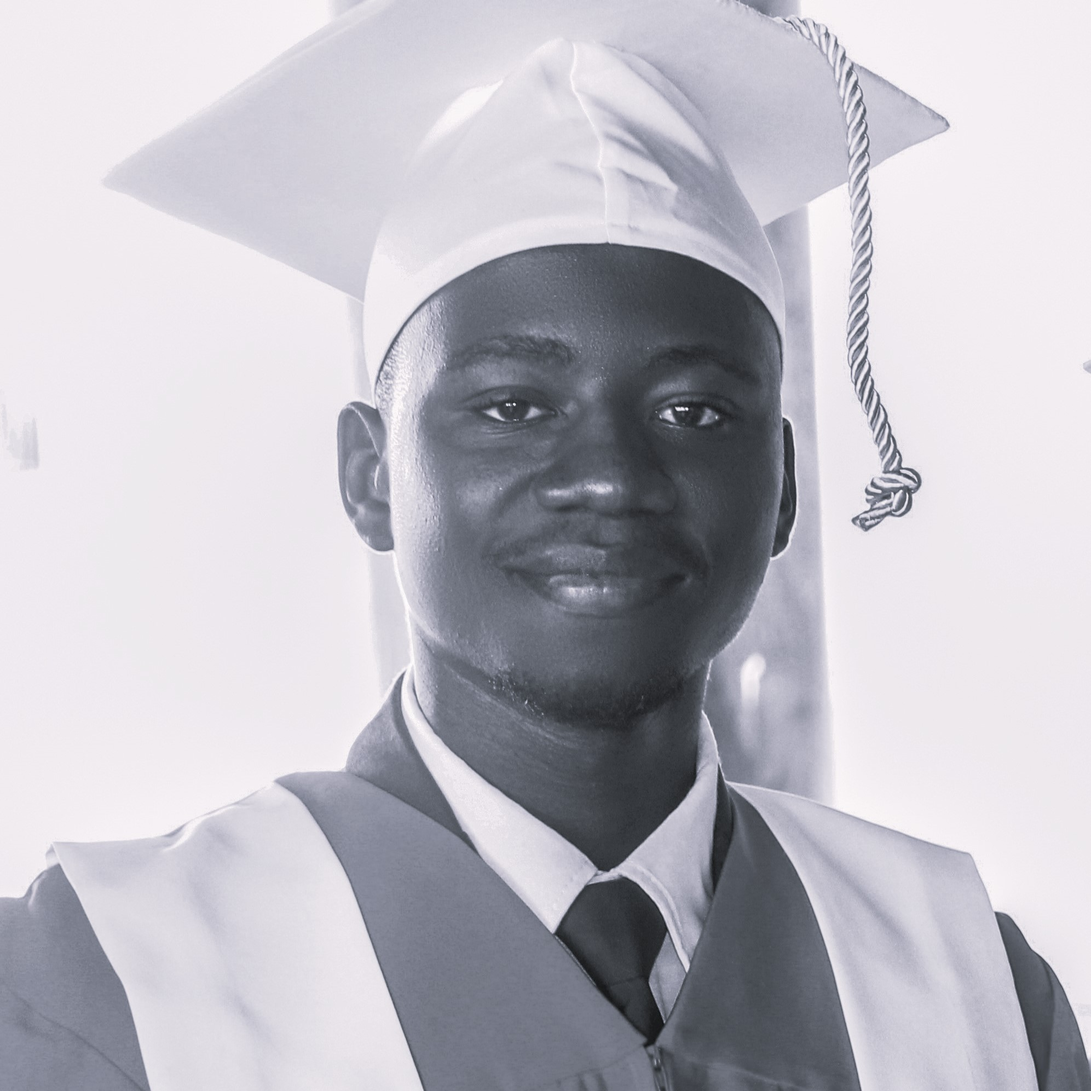
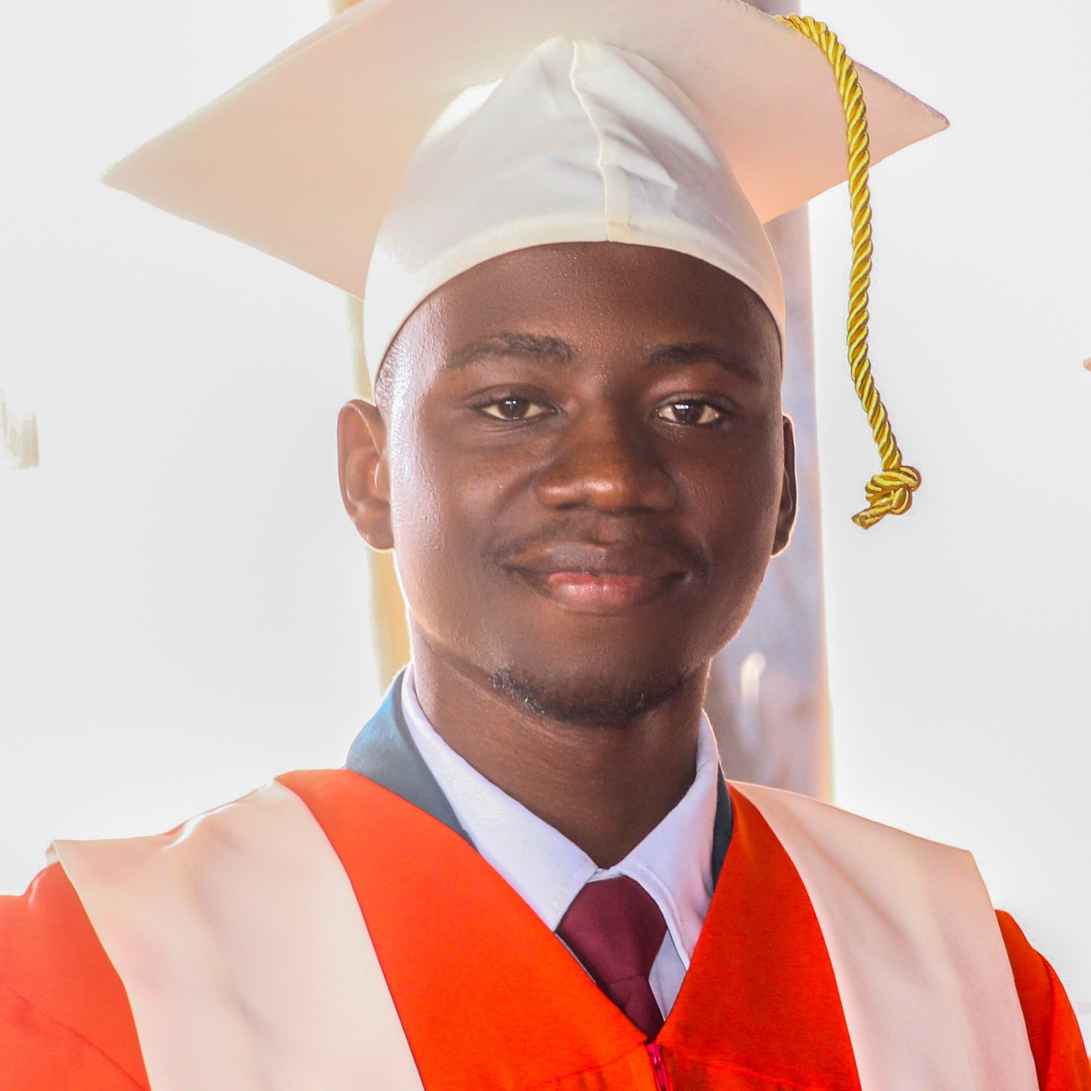
final-preview-high-quality

diff --git a/index.html b/index.html
@@ -9,7 +9,7 @@
     <meta property="og:site_name" content="Portfolio" />
     <meta property="og:title" content="Pneuma Théo. CATIANY" />
     <meta property="og:description" content="Ingénieur, diplômé en Sciences Informatiques après 4 ans d’études et d’élaboration de projets, comme la conception de sites internets et d’applications." />
-    <meta property="og:image" content="https://pneumac4.github.io/cthp/images/image.jpg" />
+    <meta property="og:image" content="https://pneumac4.github.io/cthp/images/image-preview.jpg" />
 
     <title>Portfolio - Acceuil</title>
     <script src="https://kit.fontawesome.com/7ee50907d4.js" crossorigin="anonymous"></script>
